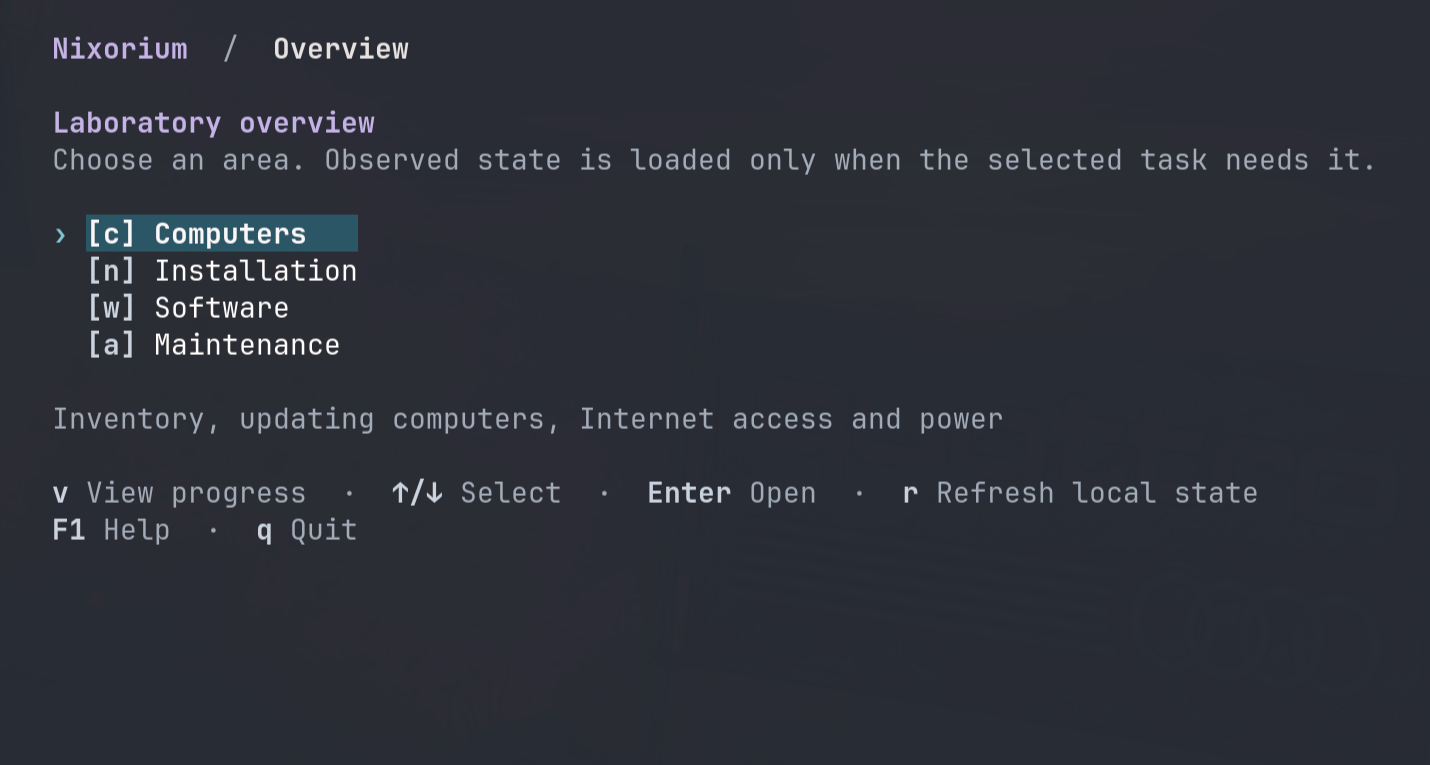
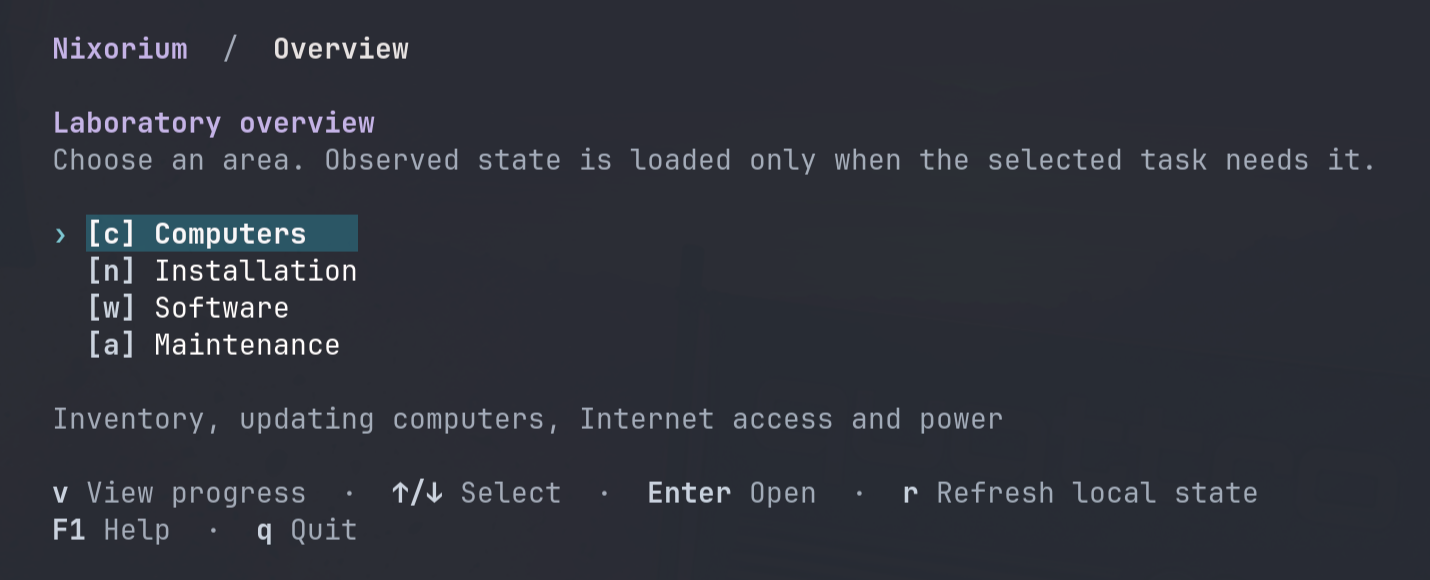
docs: crop the menu screenshot and say how to open Nixorium
Trim the empty space below the administrator menu screenshot, and tell
readers of "Using Nixorium" to open it from the dock or with the
`nixorium` command.

diff --git a/README.md b/README.md
@@ -141,7 +141,8 @@ trial on virtual machines, follow the
 
 ![The Nixorium administrator menu, with the Computers, Installation, Software and Maintenance areas](docs/images/nixorium-tui.png)
 
-The administrator menu has four areas:
+On the controller, sign in as `admin` and open **Nixorium** from the dock, or
+run `nixorium` in a terminal. The administrator menu has four areas:
 
 | Area | What it is for |
 |---|---|
